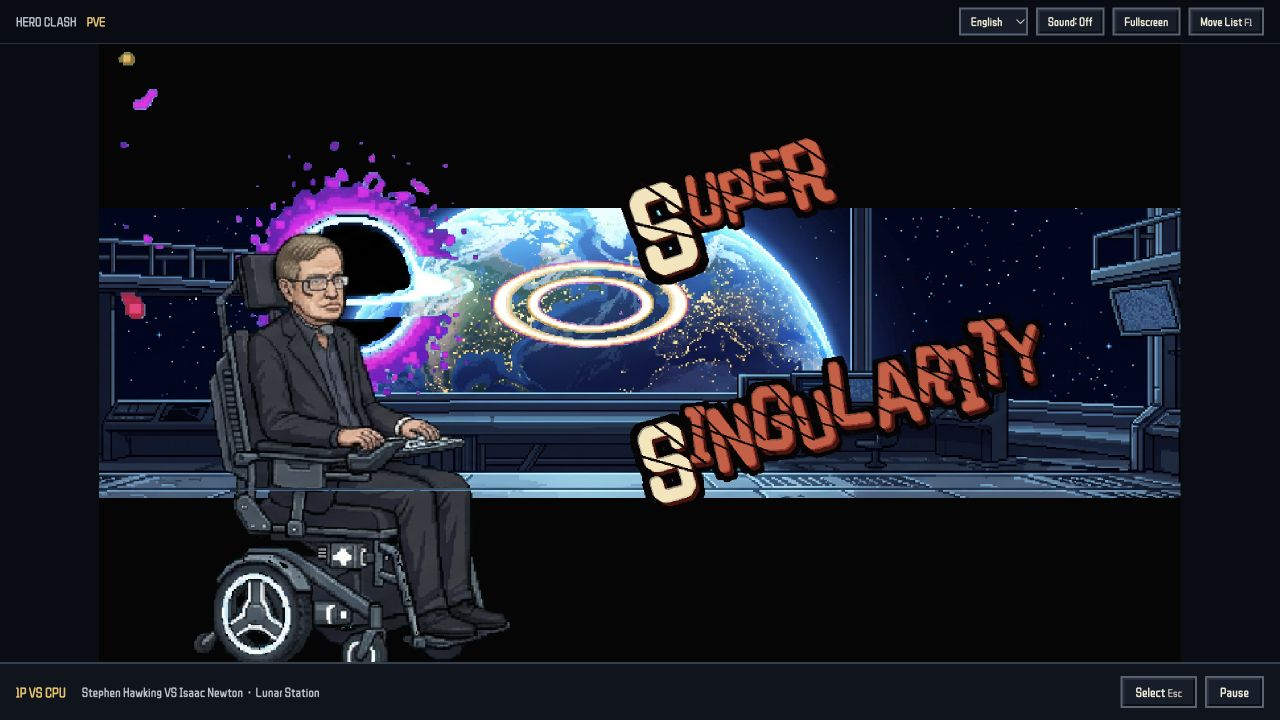
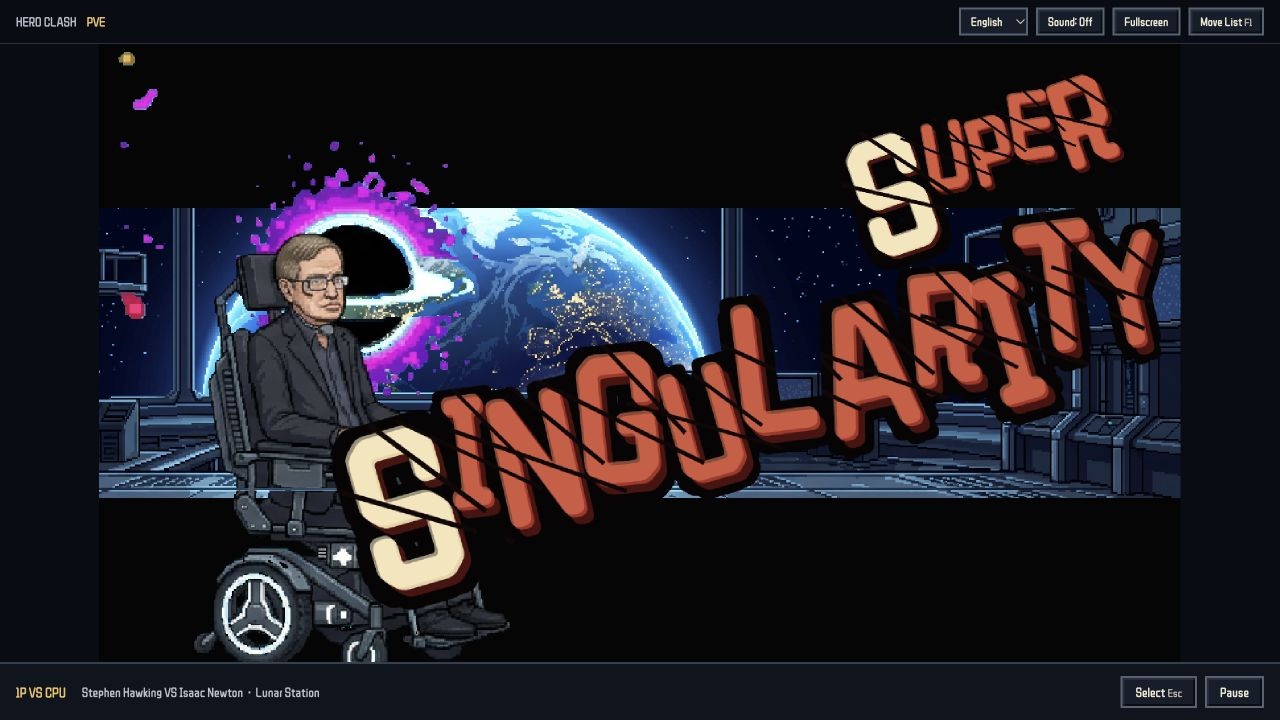
Make super lettering fill the screen using tight ink bounds

Changed region(s): [[0.0625, 0.0917, 0.9375, 0.8556], [0.25, 0.3056, 0.3125, 0.3361]]

diff --git a/game/src/game.js b/game/src/game.js
@@ -1391,18 +1391,37 @@
     ctx.globalCompositeOperation = "source-over";
     const img = ctx.getImageData(0, 0, canvas.width, canvas.height);
     const d = img.data;
+    let left = canvas.width, top = canvas.height, right = -1, bottom = -1;
     // Keep ragged, hard ink edges at game scale without flattening the warm highlights.
     for (let y = 0; y < canvas.height; y++) {
       for (let x = 0; x < canvas.width; x++) {
         const i = (y * canvas.width + x) * 4;
         if (d[i+3] < 65) d[i+3] = 0;
         else if (d[i+3] < 190 && (x * 41 + y * 19) % 5 === 0) d[i+3] = 0;
+        if (d[i+3] > 0) {
+          left = Math.min(left, x); right = Math.max(right, x);
+          top = Math.min(top, y); bottom = Math.max(bottom, y);
+        }
       }
     }
     ctx.putImageData(img, 0, 0);
-    scene.textures.addCanvas(uid, canvas);
+    // Scale actual ink, not the font's generous transparent bounds. Keep raster baking
+    // bounded, then let the lettering fill the cut-in instead of a small right-hand panel.
+    let ink = canvas;
+    if (right >= left && bottom >= top) {
+      const pad = hi * 3;
+      ink = document.createElement("canvas");
+      ink.width = right - left + 1 + pad * 2;
+      ink.height = bottom - top + 1 + pad * 2;
+      ink.getContext("2d").drawImage(canvas, left, top, right-left+1, bottom-top+1,
+        pad, pad, right-left+1, bottom-top+1);
+    }
+    scene.textures.addCanvas(uid, ink);
     const spr = scene.add.image(0, 0, uid).setOrigin(0.5).setScrollFactor(0);
-    spr.setDisplaySize(w, h);
+    const maxWidth = scene.scale.width * (opts.tag ? 0.64 : 0.78);
+    const maxHeight = (scene.scale.height || 768) * (opts.tag ? 0.40 : 0.80);
+    const displayScale = Math.min(maxWidth / ink.width, maxHeight / ink.height);
+    spr.setDisplaySize(ink.width * displayScale, ink.height * displayScale);
     if (spr.texture?.setFilter) spr.texture.setFilter(Phaser.Textures.FilterMode.LINEAR);
     spr.once("destroy", () => { if (scene.textures.exists(uid)) scene.textures.remove(uid); });
     return spr;
@@ -4917,7 +4936,8 @@
         rot: faceRight ? -0.24 : 0.19,
         fill: "#b73224",
       });
-      tag.setPosition(faceRight ? w * 0.58 : w * 0.42, h * 0.27);
+      const tagWidth = tag.getBounds().width;
+      tag.setPosition(faceRight ? w - tagWidth / 2 - 24 : tagWidth / 2 + 24, h * 0.2);
       tag.setScale(2.05);
       tag.setAlpha(0);
 
@@ -4926,8 +4946,8 @@
         rot: faceRight ? -0.19 : 0.17,
         fill: "#ab3024",
       });
-      const nameX = faceRight ? w * 0.68 : w * 0.32;
-      const nameY = h * 0.6;
+      const nameX = faceRight ? w * 0.60 : w * 0.40;
+      const nameY = h * 0.59;
       name.setPosition(nameX + (faceRight ? 110 : -110), nameY + 54);
       name.setScale(1.7);
       name.setAlpha(0);

diff --git a/game/tests/README.md b/game/tests/README.md
@@ -50,6 +50,8 @@ Language switching does not translate voice recordings or text embedded in artwo
 
 2026-11-20: Super lettering now varies glyph size, baseline and angle, splits prefixes from enlarged impact words, uses paper-colored lead glyphs, and enters diagonally. Chinese and English Lu Bu / Hawking cut-ins were exercised and their four README screenshots replaced. The 29 regressions also check font-size and angle variation, both facing angles, rotated bounds and texture disposal for all nine built-in titles.
 
+2026-11-20: Visible ink is now cropped before display scaling, so transparent font margins cannot shrink the lettering. Move names fill an envelope up to 78% of game width / 80% of game height; the super tag aligns to the outer edge. The 30 regressions include a transparent-margin crop case and a minimum envelope-fill assertion. The four bilingual cut-in screenshots were refreshed and supers now use full-width README images.
+
 ## Performance boundaries
 
 The game retains a maximum 1024×576 preview texture, per-texture frame-scan caching, loading only the current battle stage, and 30 Hz HUD updates while combat runs every frame. Selection no longer polls room or roster data; refresh after importing assets. No measured FPS or total-memory claim is made.

diff --git a/README.md b/README.md
@@ -24,11 +24,15 @@ Real gameplay, captured with the English interface and English super-move effect
 
 ### Supers · L
 
-Oversized lead letters, staggered words and diagonal motion give each super its own impact frame.
+Giant, staggered lettering sweeps across the fighter and arena. These super cut-ins are shown at full width.
 
-| Lu Bu · Red Hare Rampage | Hawking · Singularity |
-| --- | --- |
-| ![English super cut-in: mounted Lu Bu with SUPER and Red Hare / RAMPAGE lettering with oversized lead characters and staggered angles](docs/media/en/red-hare-super.jpg) | ![English super cut-in: Stephen Hawking, a black hole, and SUPER and SINGULARITY lettering with oversized lead characters and staggered angles](docs/media/en/singularity-super.jpg) |
+**Lu Bu · Red Hare Rampage**
+
+![English super cut-in: mounted Lu Bu with SUPER and Red Hare / RAMPAGE lettering with oversized lead characters and staggered angles](docs/media/en/red-hare-super.jpg)
+
+**Hawking · Singularity**
+
+![English super cut-in: Stephen Hawking, a black hole, and SUPER and SINGULARITY lettering with oversized lead characters and staggered angles](docs/media/en/singularity-super.jpg)
 
 ### Pixel-art arenas
 

diff --git a/game/tests/README.zh-CN.md b/game/tests/README.zh-CN.md
@@ -50,6 +50,8 @@
 
 2026-11-20：奥义文字增加独立字粒大小、基线高低与倾角；前缀和放大的关键字分层，主字以纸色提亮，招名斜向入场。实机检查了中英文吕布 / 霍金奥义，并更新四张 README 奥义截图。29 条回归同时检查九名内置英灵招名的字号与角度变化、双方朝向的旋转边界和贴图回收。
 
+2026-11-20：先裁掉字效贴图的透明留白，再按实际笔画范围放大，避免透明边界把文字压小。招名可铺至画宽的 78% / 画高的 80%，奥义标签贴近外侧边缘。30 条回归包含透明边界裁切和最低占屏比例断言；重新拍摄四张双语奥义截图，并改为 README 整宽展示。
+
 ## 性能边界
 
 保留预览图最大 1024×576 的纹理限制、按纹理对象缓存帧扫描、每局只加载当前战场，以及 30 Hz 的 HUD 更新；战斗仍逐帧运行。选人不再轮询联机信息或名单，导入新资源后刷新页面。没有实测 FPS / 总内存数字，不据此作数值承诺。

diff --git a/README.zh-CN.md b/README.zh-CN.md
@@ -24,11 +24,15 @@
 
 ### 奥义 · L
 
-关键字放大、字词错落与斜向入场，让奥义演出更有冲击力。
+巨幅字效斜向贯穿人物与战场，奥义截图采用整宽展示。
 
-| 吕布 · 赤兔战争践踏 | 霍金 · 奇点演说 |
-| --- | --- |
-| ![中文奥义演出：骑乘赤兔的吕布，配有奥义与赤兔战争践踏字效，关键字放大、错落斜排](docs/media/zh-CN/red-hare-super.jpg) | ![中文奥义演出：霍金与黑洞，配有奥义与奇点演说字效，关键字放大、错落斜排](docs/media/zh-CN/singularity-super.jpg) |
+**吕布 · 赤兔战争践踏**
+
+![中文奥义演出：骑乘赤兔的吕布，配有奥义与赤兔战争践踏字效，关键字放大、错落斜排](docs/media/zh-CN/red-hare-super.jpg)
+
+**霍金 · 奇点演说**
+
+![中文奥义演出：霍金与黑洞，配有奥义与奇点演说字效，关键字放大、错落斜排](docs/media/zh-CN/singularity-super.jpg)
 
 ### 像素战场
 
